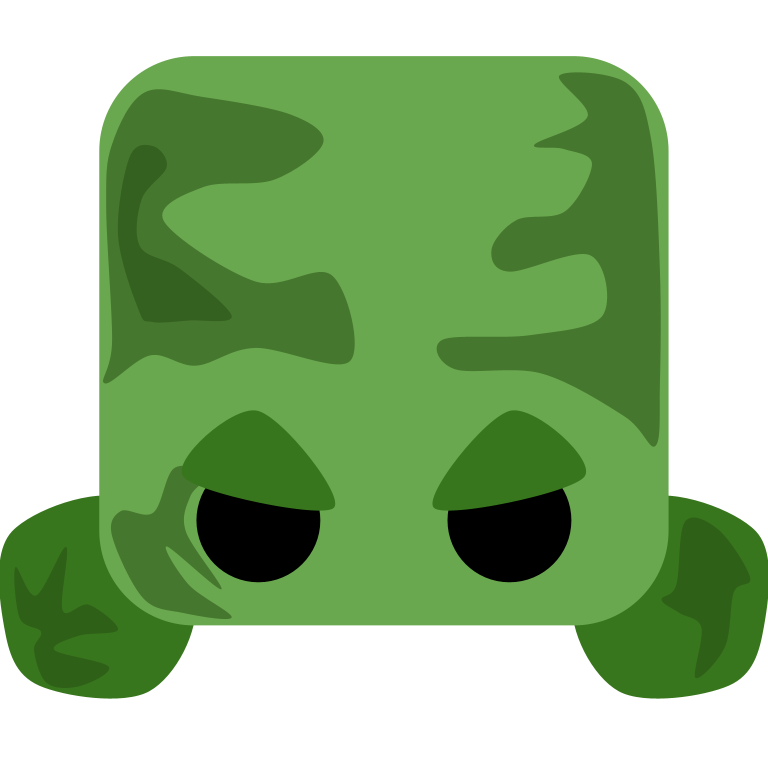
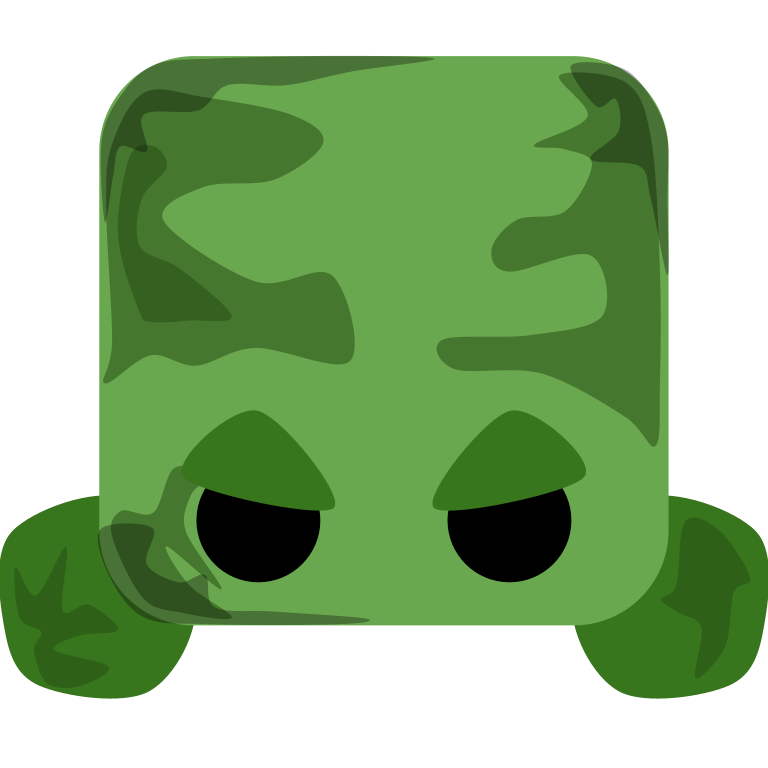
Add bear skin, vantacite monster, change skin textures, update health bar location for larger mobs

Changed region(s): [[0.125, 0.0625, 0.5625, 0.2812], [0.125, 0.6562, 0.4688, 0.8125], [0.75, 0.0625, 0.875, 0.3438]]

diff --git a/app.js b/app.js
@@ -625,14 +625,13 @@ var obstacles = Object.assign({}, structures, trees)
 /**************************** @PICKABLES *************/
 //need to update Pickable class
 class Pickable{//*&*&*&
-   constructor(id, x, y, obj, rotation=0, durability=1, stackSize=1, indicator=null){
+   constructor(id, x, y, obj, rotation=0, durability=1, stackSize=1){
        this.id = id
        this.x = x
        this.y = y
        this.name = obj.name //WARNING: THIS HAS TO EQUAL THE HOLDABLE ITEMS "KIND"/"NAME" IF A STACKABLE!! 
        this.class = obj.class
        this.type = "pickable"
-       console.log(indicator, obj.imgSrc, obj)
        this.imgSrc = obj.imgSrc?obj.imgSrc:null
        this.width = this.height = 50
        this.itemName = obj.name
@@ -716,6 +715,7 @@ class Entity {
         this.isCircle = false;
         this.width = w;
         this.height = h;
+        this.size = (w==h)?w:Math.max(w, h)
         this.speed = PORT==1111?(speed / 5):speed / 5
         this.maxSpeed = PORT==1111?(speed / 5):speed / 5 //same as this.speed
         this.onWall = false //default
@@ -752,7 +752,6 @@ class Enemy extends Entity{
     constructor(key, x, y, id, inventory=[], invSelected=0){
         var enemy = enemyObj[key]
         super(enemy.type, enemy.imgSrc, enemy.speed, enemy.w, enemy.h, x, y, enemy.health, 0, id)
-        this.size = (enemy.w==enemy.h)?enemy.w:Math.max(enemy.w, enemy.h)
         this.username = "BOT_Enemy"
         this.detectRange = enemy.detectRange
         this.damage = enemy.damage
@@ -1280,6 +1279,8 @@ const enemyObj = {
             {...holdableItems["Bow"]}
         ], 
         giveXP : 100,
+        generationProbability:60, //out of 100
+        deathMessages:["You died from a monster.", "A monster hit you.", "You were slain by a monster"],
     },
     "Lord":{
         type:"Lord",
@@ -1298,6 +1299,8 @@ const enemyObj = {
             {...holdableItems["Bow"]}
         ],  
         giveXP : 500,
+        generationProbability:30, //out of 100
+        deathMessages:["You died from a monster leader.", "A monster lord killed you."],
     },
     "Archer":{
         type:"Archer", 
@@ -1319,14 +1322,16 @@ const enemyObj = {
             {...holdableItems["Bow"]}
         ], 
         giveXP : 150,
+        generationProbability:25, //out of 100
+        deathMessages:["An archer shot you.", "A monster shot you with an arrow.", "You were killed by an archer's arrow."]
     },
     "Summoned Lord":{
         type:"Summoned Lord", 
-        imgSrc:"/imgs/Enemy_Lord.png", 
-        damage:20, 
+        imgSrc:"/imgs/Enemy_Summoned_Lord.png", 
+        damage:10, 
         detectRange:750, 
-        reloadTime:100, 
-        speed:3, 
+        reloadTime:20, 
+        speed:4, 
         health:500, 
         w:entitySize, 
         h:entitySize,
@@ -1334,22 +1339,51 @@ const enemyObj = {
             {...holdableItems["Iron Sword"]}, 
             {...holdableItems["Gold Sword"]}, 
             {...holdableItems["Arrow"], stackSize:random(holdableItems["Arrow"].maxStackSize, 1)},
-            {...holdableItems["Bow"]}
+            {...holdableItems["Bow"]},
+            {...holdableItems["Diamond Sword"]}
         ], 
         giveXP : 500,
+        generationProbability:0, //spawns in special occasions
+        deathMessages:["You died trying to kill the boss.", "A monster lord killed you.", "You died by a monster summoned by the boss."],
     },
     "Boss":{
         type:"Boss", 
         imgSrc:"/imgs/Enemy_Elder.png", 
-        damage:75, 
+        damage:100, 
         detectRange:500, 
         reloadTime:100, 
         speed:4, 
-        health : 1000, 
+        health : 2000, 
         w:entitySize, 
         h:entitySize,
         lootTable : [{...holdableItems["Plasma Sword"], generationProbability:100}], 
         giveXP : 2500,
+        generationProbability:0, //spawns in special occasions
+        deathMessages:["You died from the most powerful mob in the game.", "You were punished by the boss", "The boss killed you."],
+
+    },
+    "Vantacite Monster":{
+        type:"Vantacite Monster", 
+        imgSrc:"/imgs/Enemy_Vantacite_Monster.png", 
+        damage:95, 
+        detectRange:500, 
+        reloadTime:100, 
+        speed:4, 
+        health:750, 
+        w:entitySize*2, 
+        h:entitySize*2,
+        lootTable : [
+            {...holdableItems["Vantacite Sword"], generationProbability:20},
+            {...holdableItems["Iron Sword"]},
+            {...holdableItems["Gold Sword"]},
+            {...holdableItems["Diamond Sword"]},
+            {...holdableItems["Plasma Sword"]},
+            {...holdableItems["Spear"]},
+        ], 
+        giveXP : 2000,
+        generationProbability:10, //spawns in special occasions
+        deathMessages:["You died from a vantacite monster.", "A vantacite monster squashed you.", "You saw a vantacite monster."],
+
     }
 }
 
@@ -1384,11 +1418,11 @@ class Projectile{
         this.y = y
         this.rotation = dir + Math.PI/2//for drawing (neds to be rotwated 90 deg)
         this.direction = dir //for direction purposes
-        this.speed = speed?speed:projectilesObj[type].speed
-        this.duration = duration?duration:projectilesObj[type].flightDuration
-        this.damage = damage?damage:projectilesObj[type].damage
+        this.speed = speed?speed:projectilesObj[name].speed
+        this.duration = duration?duration:projectilesObj[name].flightDuration
+        this.damage = damage?damage:projectilesObj[name].damage
 
-        this.imgSrc = projectilesObj[type].imgSrc
+        this.imgSrc = projectilesObj[name].imgSrc
         this.width = w
         this.height = h
 
@@ -1419,15 +1453,10 @@ function dealDamageTo(damage, from, to, projectileKey=null){
     // dead...?
     if(to.health <= 0){
         // from bots
-        if(from.type == "Boss"){
-            to.deathMessage = ["You died from the most powerful mob in the game.", "You were punished by the boss", "The boss killed you."][random(2,0)] //pick one of these
-        } else if (from.type == "Summoned Lord"){
-            to.deathMessage = ["You died trying to kill the boss.", "A monster lord killed you.", "You died by a monster summoned by the boss."][random(2,0)]
-        } else if (from.type == "Lord"){
-            to.deathMessage = ["You died from a monster leader.", "A monster lord killed you."][random(2,0)]
-        } else if (from.type == "Normal"){
-            to.deathMessage = ["You died from a monster.", "A monster hit you.", "You were slain by a monster"][random(2,0)]
-        } 
+        if(from.username=="BOT_Enemy") {
+            let data = enemyObj[from.type]
+            to.deathMessage = data.deathMessages[random(data.deathMessages.length-1, 0)]
+        }
         //all else...
         else{
             var key = projectileKey
@@ -1460,11 +1489,11 @@ function dealDamageTo(damage, from, to, projectileKey=null){
                     let name = p.username
                     if(to.username && to.username == p.username) name = "yourself."
                     to.deathMessage = messages[Math.floor(Math.random() * messages.length)]
-                    //console.log(deathMessage);
                 } 
                 //archer!
                 else{
-                    to.deathMessage = ["An archer shot you.", "A monster shot you with an arrow.", "You were killed by an archer's arrow."][random(2,0)]
+                    let data = enemyObj["Archer"]
+                    to.deathMessage = data.deathMessages[random(data.deathMessages.length-1, 0)]
                     //console.log("An archer shot ", to.username, to.id)
                 }
             } 
@@ -1506,15 +1535,14 @@ setInterval(()=>{
     }
     //Spawn in enemies (chance of)
     if(Object.keys(enemies).length < maxEnemyCount){
-        if(random(100, 1) == 1){
+        var randomKey = Object.keys(enemyObj)[random(Object.keys(enemyObj).length-1, 0)]
+        if(random(100, 1) < enemyObj[randomKey].generationProbability){
             var nC = findSpawn(entitySize)
             let id = createRandomString(20)
-            if(random(10,1) == 1) {
-                enemies[id] = new Enemy("Lord", nC.x, nC.y, id)
-            } else if (random(5,1) == 1) {
+            if(randomKey === "Archer"){
                 enemies[id] = new Archer(nC.x, nC.y, id)
-            } else {
-                enemies[id] = new Enemy("Normal", nC.x, nC.y, id)
+            } else{
+                enemies[id] = new Enemy(randomKey, nC.x, nC.y, id)
             }
         }
     }
@@ -1589,8 +1617,7 @@ setInterval(()=>{
                 spawnLocation.y,
                 holdableItems[randomKey],
                 0,
-                holdableItems[randomKey].durability,
-                "##%"
+                holdableItems[randomKey].durability
             );
         }
     }
@@ -1658,8 +1685,7 @@ setInterval(()=>{
                     projectile.y, 
                     projectile, 
                     projectile.rotation, 
-                    projectile.durability, 
-                    "&&A"
+                    projectile.durability
                 );
             }
             delete projectiles[key];
@@ -1691,8 +1717,7 @@ setInterval(()=>{
                             projectile.y, 
                             projectile,
                             projectile.rotation, 
-                            projectile.durability, 
-                    "&&B"
+                            projectile.durability
                         );
                     }
                     delete projectiles[key];
@@ -1851,7 +1876,6 @@ io.sockets.on("connection", (socket)=>{
     //player eat/pick up, etc.! ADD TO Inventory 
     socket.on("eat", (data)=>{
         let item = data.what
-        console.log("ITEM", item)
         let player = entities[id]
         if(player){
             //if it is a coin...
@@ -1898,7 +1922,6 @@ io.sockets.on("connection", (socket)=>{
                     for (let i in inv) {//*&*&*&
                         if (inv[i].name === "Hand") {
                             // Replace with new item
-                            console.log(item.itemName)
                             let nItem = { ...holdableItems[item.itemName], stackSize:item.stackSize, durability:item.durability}
                             player.inventory[i] = nItem;
                             delete pickables[item.id];
@@ -1929,8 +1952,7 @@ io.sockets.on("connection", (socket)=>{
         let item = player.inventory[data.playerInvI]
         if(item.name != "Hand"){
             var pid = createRandomString(20)
-            pickables[pid] = new Pickable(pid, x, y, item, 0, item.durability, data.allDrop?item.stackSize:1, 
-                "&&C")
+            pickables[pid] = new Pickable(pid, x, y, item, 0, item.durability, data.allDrop?item.stackSize:1)
 
             if(data.allDrop || entities[id].inventory[player.invSelected].stackSize == 1) entities[id].inventory[player.invSelected] = {...holdableItems["Hand"]}
             else entities[id].inventory[player.invSelected] = {...entities[id].inventory[player.invSelected], stackSize: entities[id].inventory[player.invSelected].stackSize - 1}
@@ -2027,7 +2049,6 @@ io.sockets.on("connection", (socket)=>{
             //BREAK TOOL? Is the tool too weak?
             if(player.inventory[player.invSelected].durability <= 0 
             && player.inventory[player.invSelected].durability!=null){
-                //console.log(player.inventory[player.invSelected])
                 player.inventory[player.invSelected] = {...holdableItems["Hand"]}
                 usedItem = false // item was used...but destroyed
             }
@@ -2076,7 +2097,6 @@ io.sockets.on("connection", (socket)=>{
     //buy
     socket.on("buy", function(data){
         let player = entities[id]
-        console.log(player, data.item)
         let boughtItem = data.item
         player.xp -= boughtItem.cost
         var pid = createRandomString(20)

diff --git a/client/index.html b/client/index.html
@@ -47,6 +47,11 @@
                 <input type="radio" name="option" value="Player4">
                 <img class="skins_imgs" src="/client/imgs/Player4.png" alt="Player 4">
             </label>
+            <label>
+                <input type="radio" name="option" value="Player5">
+                <img class="skins_imgs" src="/client/imgs/Player5.png" alt="Player 5">
+                <span style="background-color: dodgerblue; color:white; padding:10px; font-size:12px;">NEW!</span>
+            </label>
         </div>
         <button onclick="startGame()" id="startGameBtn">Play</button>
         

diff --git a/client/actions.js b/client/actions.js
@@ -192,7 +192,7 @@ function updateCanv(info, serverPlayerCount, leaderboard){
             let w = 50
             let h = 10
             let x = -w/2
-            let y = -entitySize *3/4
+            let y = -item.size *3/4
             ctx.save()
             ctx.translate(item.x, item.y)
             ctx.fillStyle = "black"
